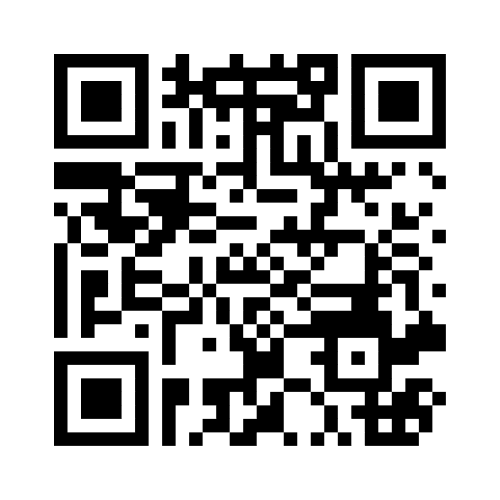
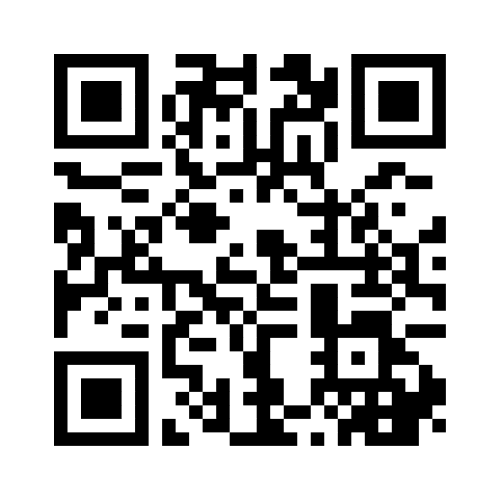
edits

Changed region(s): [[0.09, 0.09, 0.9, 0.9], [0.63, 0.78, 0.75, 0.87], [0.63, 0.18, 0.69, 0.24]]

diff --git a/slide deck/01_introduction/Introduction to Public Policy Beamer.md b/slide deck/01_introduction/Introduction to Public Policy Beamer.md
@@ -41,6 +41,8 @@ Dr. David P. Adams, Ph.D.
 
 ![Word Cloud](wordcloud.png){width=30%}
 
+[View Word Cloud](https://www.menti.com/bl7i955mmffk)
+
 ---
 
 # What is Public? 
@@ -161,6 +163,7 @@ What can you do without government intervention?
 
 ![The Feels](feelin.png){width=30%}
 
+[Check it](https://www.menti.com/bl6vuusrbp9x)
 ---
 
 # For Next Time:
